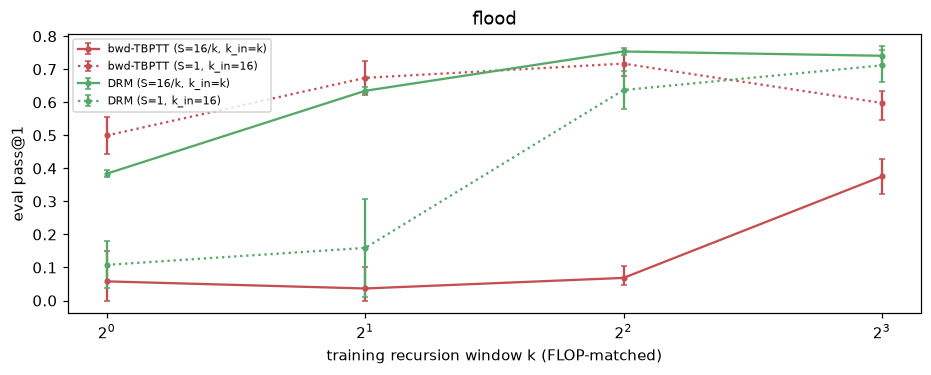
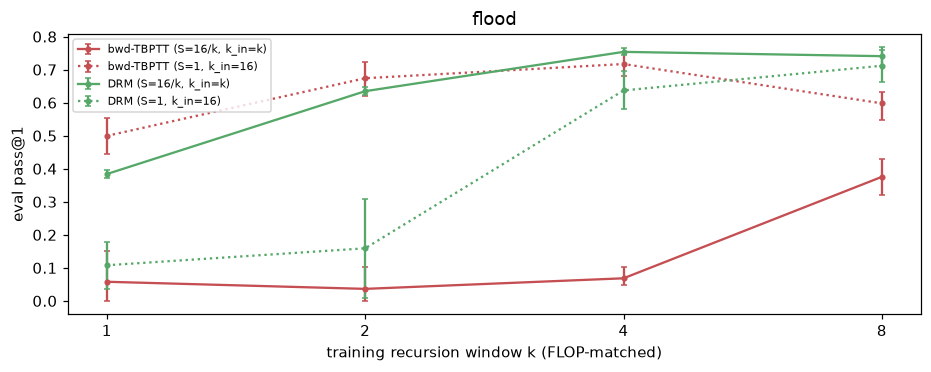
Figure fixes: titles, ticks, rule-based trajectory example; README wording vs heatmaps

diff --git a/scripts/make_figures.py b/scripts/make_figures.py
@@ -84,6 +84,7 @@ def fig_compute(s):
                               [cur[str(c)]["hi"] - cur[str(c)]["mean"] for c in cs]],
                         color=COL[m], marker="o", ms=3, label=SHORT[m], capsize=2)
         ax.set_xscale("log", base=2)
+        ax.set_xticks([1, 2, 4, 8, 16, 32, 64], ["1", "2", "4", "8", "16", "32", "64"])
         ax.set_title(t)
         ax.set_xlabel("test-time Phi applications (S x k_in)")
     axes[0].set_ylabel("eval pass@1")
@@ -124,7 +125,7 @@ def fig_heatmaps(s, tasks=("flood", "gravity", "shift")):
 
 
 def fig_mismatch(s, task="flood"):
-    fig, axes = plt.subplots(1, 3, figsize=(15, 3.4))
+    fig, axes = plt.subplots(1, 3, figsize=(18, 4.0))
     tr = s["traces"][task]
     for m in ("fwd", "drm", "bwd_tbptt"):
         own, ora = tr[m]["S16_k1"]["own"], tr[m]["S16_k1"]["oracle"]
@@ -134,10 +135,10 @@ def fig_mismatch(s, task="flood"):
         axes[1].plot(st[1:], [r["visible_wrong_frac"] for r in own][1:], color=COL[m], label=SHORT[m])
         sc = [r["self_correct_rate"] for r in own][1:]
         axes[2].plot(st[1:], [np.nan if v is None else v for v in sc], color=COL[m], label=SHORT[m])
-    axes[0].set_title(f"{task}, S=16, k_in=1: cell accuracy per denoising step")
+    axes[0].set_title(f"{task}, S=16, k_in=1: cell accuracy", fontsize=10)
     axes[0].set_ylabel("cell accuracy")
-    axes[1].set_title("fraction of visible (unmasked) input cells that are wrong")
-    axes[2].set_title("of those wrong visible cells: fraction fixed in the next prediction")
+    axes[1].set_title("visible input cells that are wrong", fontsize=10)
+    axes[2].set_title("wrong visible cells fixed at the next step", fontsize=10)
     for ax in axes:
         ax.set_xlabel("outer denoising step")
         ax.legend(fontsize=7)
@@ -172,6 +173,7 @@ def fig_ksweep(s):
                             color=COL[m], ls=ls, marker="o", ms=3, capsize=2,
                             label=f"{SHORT[m]} ({'S=16/k, k_in=k' if kind == 'native' else 'S=1, k_in=16'})")
         ax.set_xscale("log", base=2)
+        ax.set_xticks([1, 2, 4, 8], ["1", "2", "4", "8"])
         ax.set_title(t)
         ax.set_xlabel("training recursion window k (FLOP-matched)")
     np.atleast_1d(axes)[0].set_ylabel("eval pass@1")
@@ -191,7 +193,17 @@ def fig_tasks():
     save(fig, "tasks.png")
 
 
-def fig_trajectory(demo, ex=0):
+def pick_example(demo):
+    """First shown example where DRM's final grid is right and fwd's is wrong (else 0)."""
+    d, f = demo["methods"]["drm"], demo["methods"]["fwd"]
+    for i in range(len(d["y"])):
+        if d["steps"][-1]["pred"][i] == d["y"][i] and f["steps"][-1]["pred"][i] != f["y"][i]:
+            return i
+    return 0
+
+
+def fig_trajectory(demo, ex=None):
+    ex = pick_example(demo) if ex is None else ex
     ms = list(demo["methods"])
     nmax = max(len(demo["methods"][m]["steps"]) for m in ms)
     fig, axes = plt.subplots(2 * len(ms), nmax + 2, figsize=(1.3 * (nmax + 2), 2.7 * len(ms)))
@@ -211,7 +223,9 @@ def fig_trajectory(demo, ex=0):
             axes[2 * r + 1, i + 2].imshow(np.array(st["pred"][ex]).reshape(H, W), cmap=GRID_CMAP, vmin=0, vmax=8)
             axes[2 * r + 1, i + 2].set_title("pred" + (" ✓" if ok else ""), fontsize=7)
         S, k = d["schedule"]
-        axes[2 * r + 1, 0].text(0, 0.5, f"{SHORT[m]}\nS={S}, k_in={k}", fontsize=10, transform=axes[2 * r + 1, 0].transAxes)
+        final_ok = d["steps"][-1]["pred"][ex] == d["y"][ex]
+        axes[2 * r + 1, 0].text(0, 0.5, f"{SHORT[m]}\nS={S}, k_in={k}\nfinal: {'correct' if final_ok else 'wrong'}",
+                                fontsize=10, transform=axes[2 * r + 1, 0].transAxes)
     save(fig, "trajectory.png")
 
 

diff --git a/docs/README.template.md b/docs/README.template.md
@@ -126,7 +126,7 @@ What the compute curves and heatmaps show:
 - **One-step denoising does not improve with more test compute.** On flood it peaks at {{cc_flood_fwd_16}}% at 16 Phi and falls to {{cc_flood_fwd_64}}% at 64. On gravity it stays near 0 at every budget.
 - **DRM keeps improving past the matched budget on flood**, from {{cc_flood_drm_16}}% at 16 Phi to {{cc_flood_drm_64}}% at 64. TBPTT peaks at 16 Phi ({{cc_flood_bwd_tbptt_16}}%) and degrades at 64 ({{cc_flood_bwd_tbptt_64}}%). So the flood gap to TBPTT widens with test compute.
 - **Backward-trained models are tied to their training horizon.** They do well with latent recursion near 16 steps and badly with re-masking (S > 1), because they never saw a visible label token in training. The heatmaps show this as a bright S = 1 row.
-- **DRM is good on a band of schedules** with k_in ≥ 4 and S ≥ 2. That matches its training, where k = 4 steps start from a partially visible grid.
+- **DRM does well whenever k_in ≥ 4**, its training window, at almost any S, and fails with k_in ≤ 2. That matches its training: k = 4 latent steps that start from a partially visible grid.
 
 ## Train-test mismatch of one-step denoising
 
@@ -143,9 +143,9 @@ How to read this probe:
 - **Backward TBPTT.** TBPTT never sees visible tokens in training. It fixes {{mm_flood_bwd_tbptt_selfcorr}}% of wrong visible cells on flood ({{mm_gravity_bwd_tbptt_selfcorr}}% on gravity), but for the same reason it gains little from noised clean targets. Its dashed line stays within about 2 points of its solid line ({{mm_flood_bwd_tbptt_oracle_last_cell}}% vs {{mm_flood_bwd_tbptt_own_last_cell}}% at the last flood step).
 - **Scope.** The probe is measured on S = 16, k_in = 1, which is the one-step denoiser's dev-chosen schedule on every eval task. It is not each model's best schedule.
 
-![Denoising trajectory on one flood eval example for DRM and for one-step denoising, each at its dev-chosen schedule. Each column shows the masked input state and the predicted grid at one outer step.](figures/trajectory.png)
+![Denoising trajectory on one flood eval example for DRM (S=4, k_in=4) and for one-step denoising (S=16, k_in=1), each at its dev-chosen schedule. Each column shows the masked input state (white = MASK) and the predicted grid at one outer step; a tick marks a fully correct prediction.](figures/trajectory.png)
 
-*[figures/trajectory.png](figures/trajectory.png): data in [results/demo/trajectories.json](results/demo/trajectories.json), from [scripts/demo_trajectories.py](scripts/demo_trajectories.py), which retrains the seed-100 models and asserts they match the main-grid pass@1 exactly.*
+*[figures/trajectory.png](figures/trajectory.png): data in [results/demo/trajectories.json](results/demo/trajectories.json), from [scripts/demo_trajectories.py](scripts/demo_trajectories.py), which retrains the seed-100 models and asserts they match the main-grid pass@1. The example shown is chosen by a fixed rule, the first of the 6 recorded eval examples where DRM ends correct and fwd ends wrong, so it is illustrative and not typical.*
 
 ## Training timelines and the k sweep
 

diff --git a/README.md b/README.md
@@ -126,7 +126,7 @@ What the compute curves and heatmaps show:
 - **One-step denoising does not improve with more test compute.** On flood it peaks at 39.1% at 16 Phi and falls to 20.6% at 64. On gravity it stays near 0 at every budget.
 - **DRM keeps improving past the matched budget on flood**, from 75.7% at 16 Phi to 85.4% at 64. TBPTT peaks at 16 Phi (69.8%) and degrades at 64 (23.8%). So the flood gap to TBPTT widens with test compute.
 - **Backward-trained models are tied to their training horizon.** They do well with latent recursion near 16 steps and badly with re-masking (S > 1), because they never saw a visible label token in training. The heatmaps show this as a bright S = 1 row.
-- **DRM is good on a band of schedules** with k_in ≥ 4 and S ≥ 2. That matches its training, where k = 4 steps start from a partially visible grid.
+- **DRM does well whenever k_in ≥ 4**, its training window, at almost any S, and fails with k_in ≤ 2. That matches its training: k = 4 latent steps that start from a partially visible grid.
 
 ## Train-test mismatch of one-step denoising
 
@@ -143,9 +143,9 @@ How to read this probe:
 - **Backward TBPTT.** TBPTT never sees visible tokens in training. It fixes 38.1% of wrong visible cells on flood (16.8% on gravity), but for the same reason it gains little from noised clean targets. Its dashed line stays within about 2 points of its solid line (71.5% vs 69.6% at the last flood step).
 - **Scope.** The probe is measured on S = 16, k_in = 1, which is the one-step denoiser's dev-chosen schedule on every eval task. It is not each model's best schedule.
 
-![Denoising trajectory on one flood eval example for DRM and for one-step denoising, each at its dev-chosen schedule. Each column shows the masked input state and the predicted grid at one outer step.](figures/trajectory.png)
+![Denoising trajectory on one flood eval example for DRM (S=4, k_in=4) and for one-step denoising (S=16, k_in=1), each at its dev-chosen schedule. Each column shows the masked input state (white = MASK) and the predicted grid at one outer step; a tick marks a fully correct prediction.](figures/trajectory.png)
 
-*[figures/trajectory.png](figures/trajectory.png): data in [results/demo/trajectories.json](results/demo/trajectories.json), from [scripts/demo_trajectories.py](scripts/demo_trajectories.py), which retrains the seed-100 models and asserts they match the main-grid pass@1 exactly.*
+*[figures/trajectory.png](figures/trajectory.png): data in [results/demo/trajectories.json](results/demo/trajectories.json), from [scripts/demo_trajectories.py](scripts/demo_trajectories.py), which retrains the seed-100 models and asserts they match the main-grid pass@1. The example shown is chosen by a fixed rule, the first of the 6 recorded eval examples where DRM ends correct and fwd ends wrong, so it is illustrative and not typical.*
 
 ## Training timelines and the k sweep
 
